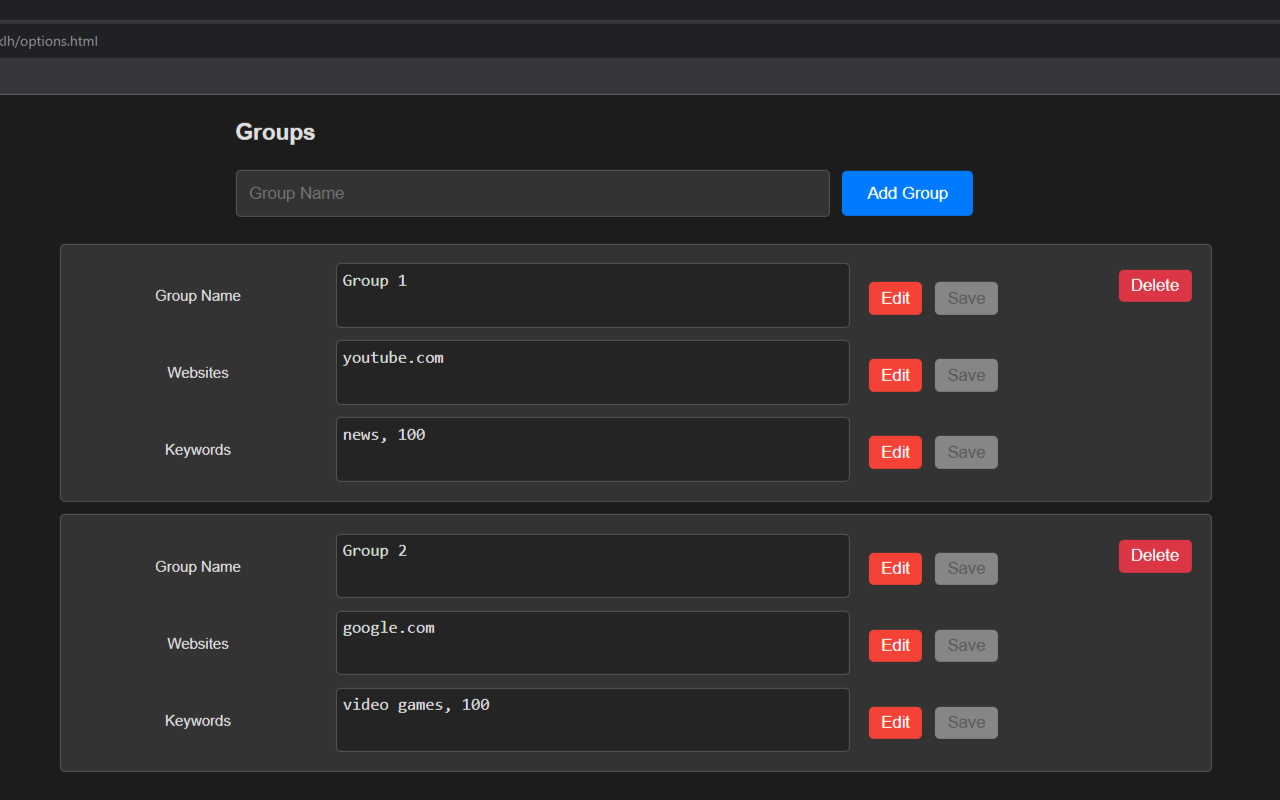
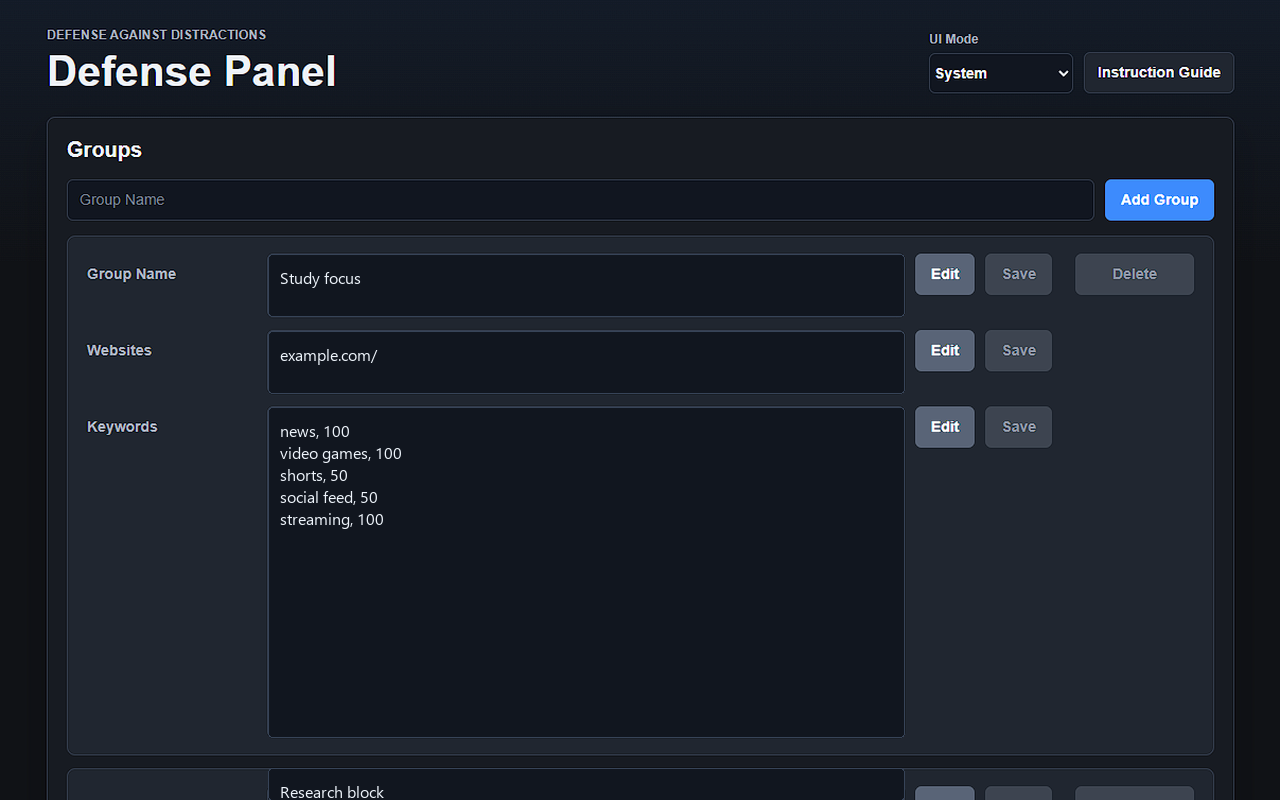
Prepare store-compatible listing assets

Changed region(s): [[0.0312, 0.1562, 0.9688, 1.0], [0.0, 0.0, 1.0, 0.125], [0.875, 0.6562, 0.9375, 0.7188]]

diff --git a/docs/release-checklist.md b/docs/release-checklist.md
@@ -53,6 +53,7 @@ Use this checklist before publishing a new extension release.
 
 - Use the English store listing from `src/store-assets/store-listing/en.txt`.
 - Use screenshots from `src/store-assets/screenshots/`.
+- Confirm screenshots do not expose personal accounts, private conversations, real rules, real domains, or other user-specific configuration.
 - Use promotional images from `src/store-assets/promo/`.
 - Use extension icons from `src/store-assets/icons/`.
 
